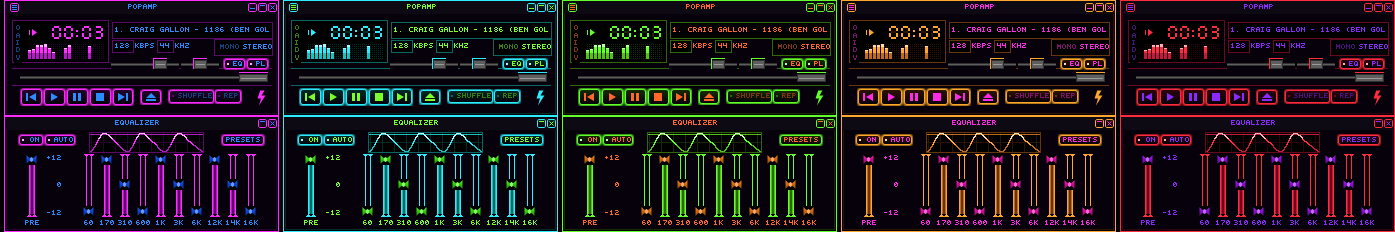
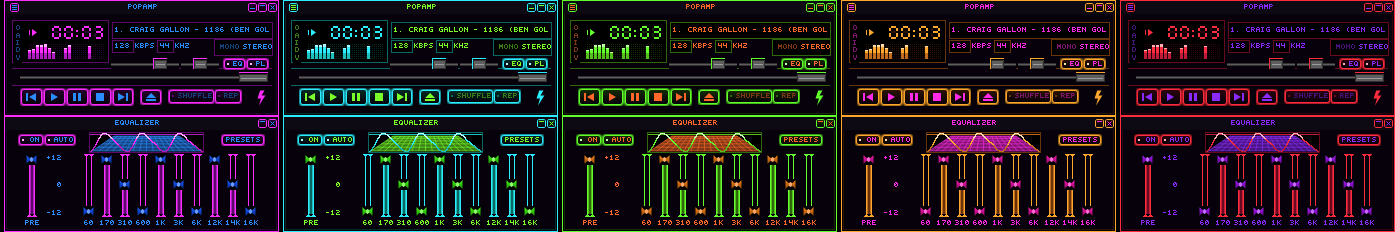
Purple Glow: a floor in perspective under the equalizer's graph
As in the original Purple Glow v2: a dark blue trapezoid lined with strips
converging into the distance and rows that close up towards its far edge,
one fill and one stroked path. Checked with popamp /RENDER.

diff --git a/tools/art_eq.py b/tools/art_eq.py
@@ -48,10 +48,39 @@ def slider_frame(p, x, y, k):
     p.path(rails(x, y), "glow")
 
 
+# The graph's floor: a trapezoid seen in perspective, its far edge at FLOOR_TOP, its near edge at the bottom
+FLOOR_TOP, FLOOR_BOTTOM = 3, 18  # rows in the graph
+FAR, NEAR = (24, 89), (2, 111)  # the far and the near edge's ends
+ACROSS, DEEP = 16, 6  # the strips running away from the eye, the rows across them
+
+
+def floor_x(t, y):
+    """Where a line running away from the eye, `t` of the way from left to right, crosses row `y`."""
+    k = (y - FLOOR_TOP) / (FLOOR_BOTTOM - FLOOR_TOP)
+    left = FAR[0] + (NEAR[0] - FAR[0]) * k
+    right = FAR[1] + (NEAR[1] - FAR[1]) * k
+    return left + (right - left) * t
+
+
+def floor(p, x, y):
+    """A dark blue floor under the graph, lined in perspective: lines converging into the distance, and
+    lines across them closer together the farther they are."""
+    top, bottom = y + FLOOR_TOP, y + FLOOR_BOTTOM
+    p.path(f"M{x + FAR[0]} {top}H{x + FAR[1]}L{x + NEAR[1]} {bottom}H{x + NEAR[0]}Z", "ink-dim")
+    d = ""
+    for i in range(ACROSS + 1):
+        t = i / ACROSS
+        d += f"M{x + floor_x(t, FLOOR_TOP):.2f} {top}L{x + floor_x(t, FLOOR_BOTTOM):.2f} {bottom}"
+    for j in range(DEEP + 1):
+        row = FLOOR_TOP + (FLOOR_BOTTOM - FLOOR_TOP) * (j / DEEP) ** 1.6
+        d += f"M{x + floor_x(0, row):.2f} {y + row:.2f}H{x + floor_x(1, row):.2f}"
+    p.line(d, "ink", 0.6)
+
+
 def graph(p):
-    """The graph's ground with its grid, the column of line colours beside it and the preamp's line."""
+    """The graph's ground with its floor, the column of line colours beside it and the preamp's line."""
     p.rect(0, 294, 113, 19, "lcd")
-    p.path("".join(f"M{1 + 12 * i} 294h1v19h-1z" for i in range(10)) + "M0 303h113v1h-113z", "glow-deep")
+    floor(p, 0, 294)
     for row in range(19):
         p.rect(115, 294 + row, 1, 1, level_colour(round(27 * (1 - row / 18))))
     p.rect(0, 314, 113, 1, "glow-mid")
